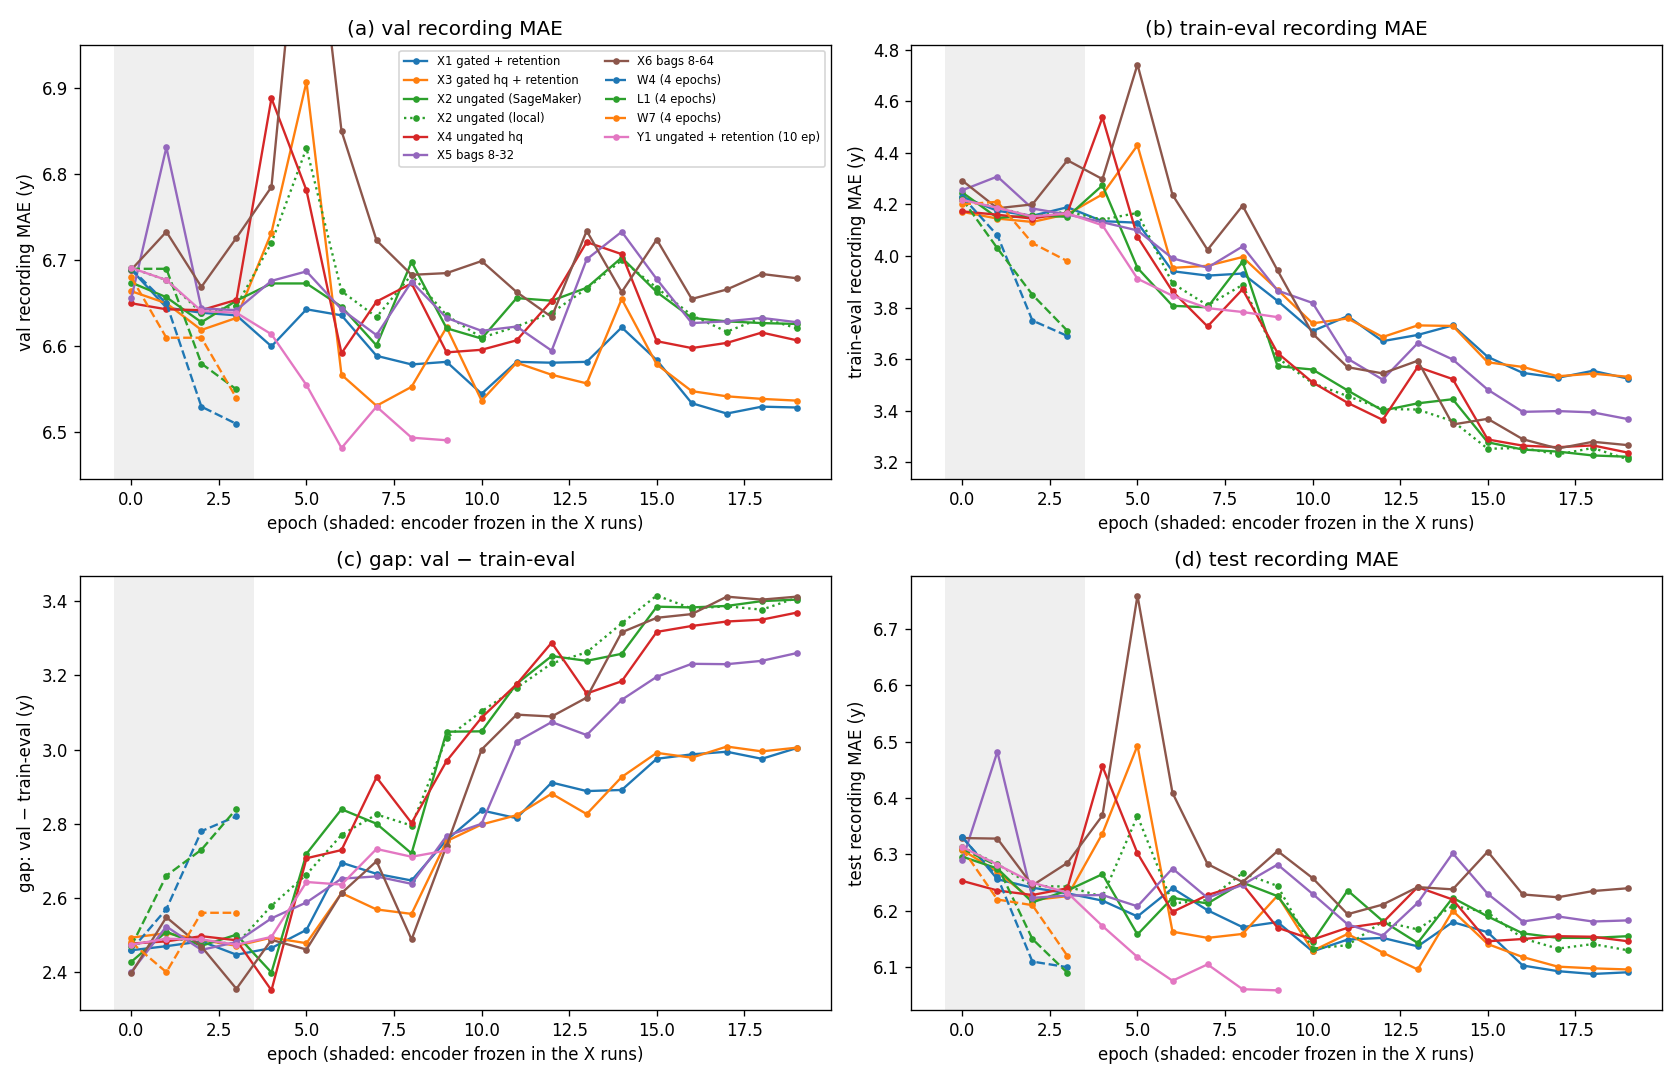
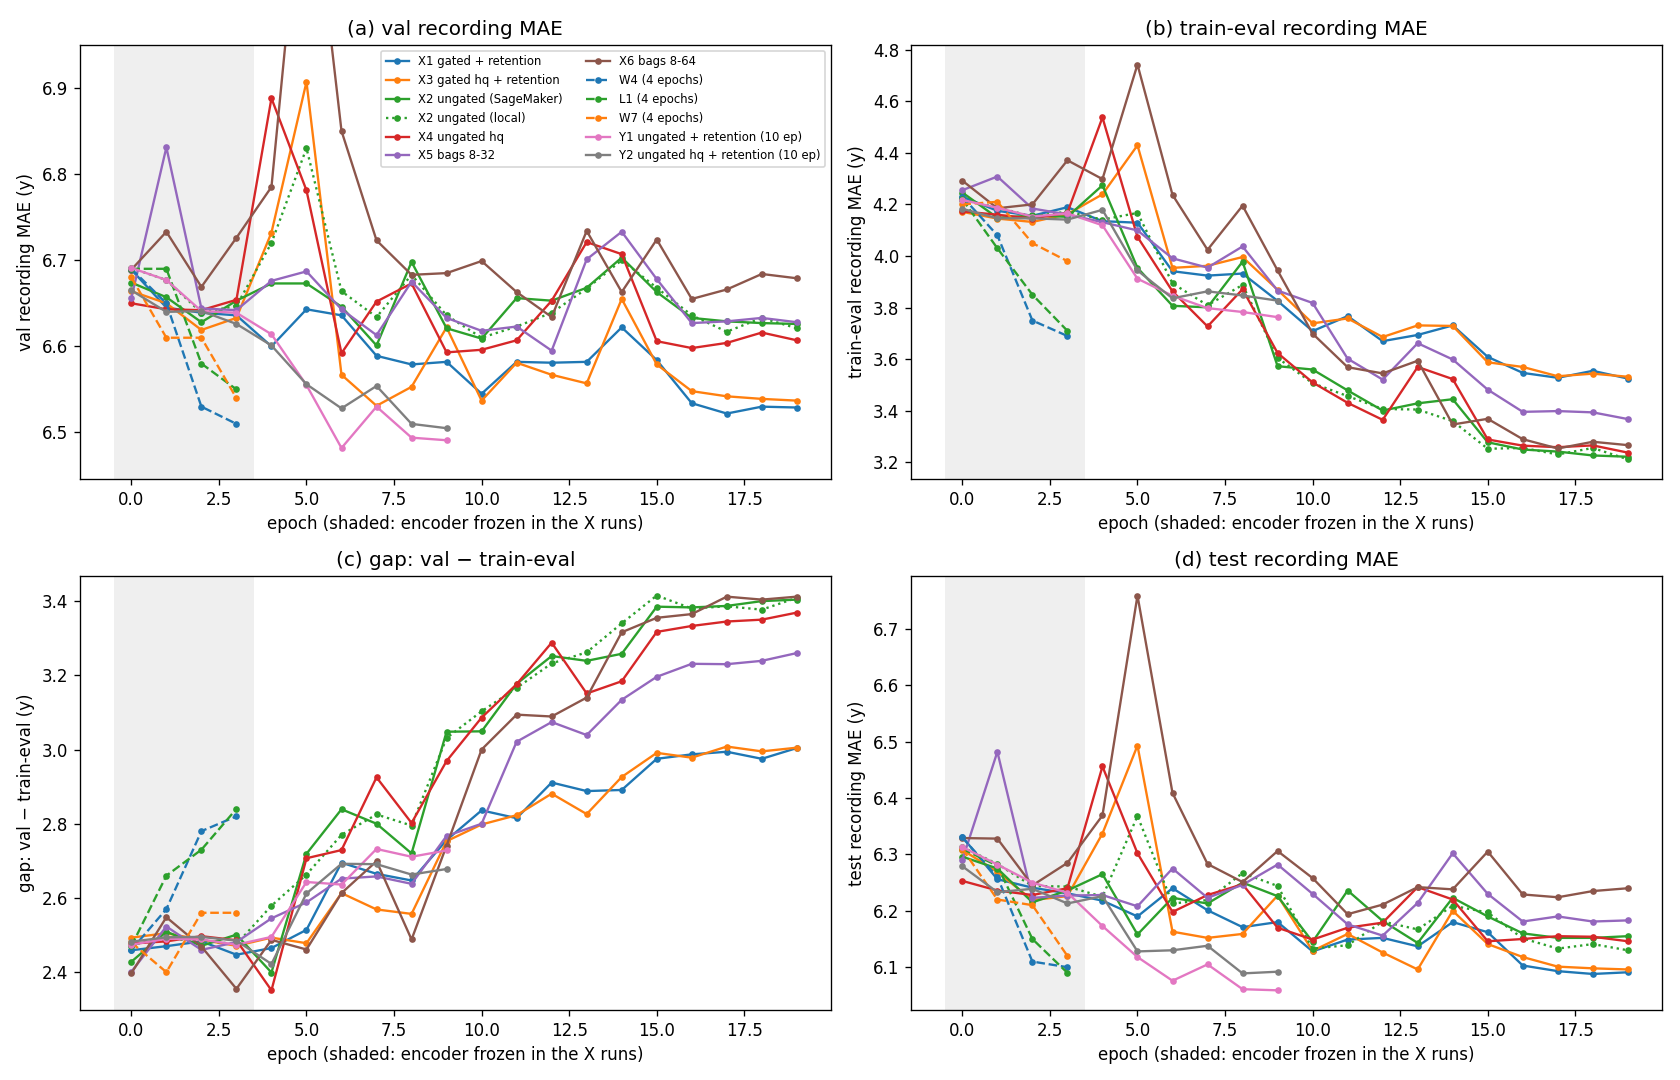
Y2 (ungated ABMIL + retention, attention on h + q, 10 epochs): section 12 rows, fit curves, age groups, LEMON
Best val 6.50 at epoch 9 (test 6.09), a tie with Y1 (6.48 / 6.08); best test TUAB normal
of every run (4.35). LEMON zero-shot 4.56 (all windows 4.51).

diff --git a/scripts/mil_x_fit_plot.py b/scripts/mil_x_fit_plot.py
@@ -20,10 +20,11 @@ from labram.eval.age_plots import assert_max_columns, panel_labels  # noqa: E402
 
 STYLE = {"X1": ("C0", "-"), "X3": ("C1", "-"), "X2 (SageMaker)": ("C2", "-"), "X2 (local)": ("C2", ":"),
          "X4": ("C3", "-"), "X5": ("C4", "-"), "X6": ("C5", "-"),
-         "W4": ("C0", "--"), "L1": ("C2", "--"), "W7": ("C1", "--"), "Y1": ("C6", "-")}
+         "W4": ("C0", "--"), "L1": ("C2", "--"), "W7": ("C1", "--"), "Y1": ("C6", "-"), "Y2": ("C7", "-")}
 LABEL = {"X1": "X1 gated + retention", "X3": "X3 gated hq + retention", "X2 (SageMaker)": "X2 ungated (SageMaker)",
          "X2 (local)": "X2 ungated (local)", "X4": "X4 ungated hq", "X5": "X5 bags 8-32",
-         "X6": "X6 bags 8-64", "W4": "W4 (4 epochs)", "L1": "L1 (4 epochs)", "W7": "W7 (4 epochs)", "Y1": "Y1 ungated + retention (10 ep)"}
+         "X6": "X6 bags 8-64", "W4": "W4 (4 epochs)", "L1": "L1 (4 epochs)", "W7": "W7 (4 epochs)", "Y1": "Y1 ungated + retention (10 ep)",
+         "Y2": "Y2 ungated hq + retention (10 ep)"}
 
 
 def main():

diff --git a/scripts/mil_cohort_summary.py b/scripts/mil_cohort_summary.py
@@ -97,6 +97,9 @@ def collect():
     y1 = glob.glob(os.path.join(LOCAL, "Y1_*", "analysis"))
     if y1:
         bag["Y1"] = (y1[0], 6)
+    y2 = glob.glob(os.path.join(LOCAL, "Y2_*", "analysis"))
+    if y2:
+        bag["Y2"] = (y2[0], 9)
     for name, (d, ep) in bag.items():
         for split in ("val", "test"):
             path = os.path.join(d, f"{split}_bag_weights_epoch{ep:02d}.parquet")

diff --git a/scripts/mil_age_groups.py b/scripts/mil_age_groups.py
@@ -48,6 +48,7 @@ EXPERIMENTS = {
     "X5 bags 8-32, 20 ep": "X5",
     "X6 bags 8-64, 20 ep": "X6",
     "Y1 ungated + retention, 10 ep": "Y1",
+    "Y2 ungated hq + retention, 10 ep": "Y2",
 }
 
 

diff --git a/docs/mil_stage1_results.md b/docs/mil_stage1_results.md
@@ -1005,7 +1005,7 @@ Launcher: `scripts/mil_runs/submit_grid.sh` (jobs `X1`–`X6`); X2 also runs on
 the local GPU (`scripts/mil_runs/run_local_abmil.sh trainer.epochs=20
 mil.freeze_encoder_epochs=4`). ClearML project `LaBraM/heedb_mil`.
 
-### Table 12.1. Jobs (status 2026-11-11 09:40 UTC)
+### Table 12.1. Jobs (status 2026-11-11 15:20 UTC)
 
 | job | pool | attention reads | retention | bag | where | status |
 |---|---|---|---|---|---|---|
@@ -1017,7 +1017,7 @@ mil.freeze_encoder_epochs=4`). ClearML project `LaBraM/heedb_mil`.
 | X5 | gated (X1) | $h$ | 0.1 | 16 × K, K ~ U{8..32} | SM g5.2xlarge on-demand | done (13:49 UTC; ~53 min per trained epoch) |
 | X6 | gated (X1) | $h$ | 0.1 | 8 × K, K ~ U{8..64} | SM g5.4xlarge on-demand (resubmitted) | done (01:27 UTC, 11 Nov; ~92 min per trained epoch) |
 | Y1 | ungated (L1) | $h$ | 0.1 | 32 × 8 | local GPU (no SageMaker g5 capacity); 10 epochs, frozen 0–3 | done (best val epoch 6) |
-| Y2 | ungated (L1) | $h$ + $q$ | 0.1 | 32 × 8 | local GPU, after Y1; 10 epochs, frozen 0–3 | running |
+| Y2 | ungated (L1) | $h$ + $q$ | 0.1 | 32 × 8 | local GPU, after Y1; 10 epochs, frozen 0–3 | done (14:53 UTC; best val epoch 9) |
 
 Infrastructure notes:
 - **X6, first attempt** (spot `g5.4xlarge`) stopped logging silently in
@@ -1122,6 +1122,7 @@ $\eta$ is the share of the train-eval improvement that reached val.
 | X5 bags 8–32 | 6.64 → 6.60 (12) | 6.16 / 6.18 | 4.16 → 3.37 | 2.48 → 3.07 → 3.26 | 0.06 |
 | X6 bags 8–64 | 6.73 → 6.63 (12) | 6.21 / 6.24 | 4.37 → 3.27 | 2.35 → 3.09 → 3.41 | 0.08 |
 | Y1 ungated + retention, 10 ep | 6.64 → **6.48** (6) | **6.08** / **6.06** | 4.17 → 3.76 | 2.47 → 2.64 → 2.73 | 0.39 |
+| Y2 ungated hq + retention, 10 ep | 6.63 → 6.50 (9) | 6.09 / 6.09 | 4.14 → 3.83 | 2.49 → 2.68 → 2.68 | 0.39 |
 
 ### Table 12.4. Gap per dataset: L1 after 4 epochs vs. X2 after 20 (same model; val − train-eval, years)
 
@@ -1167,9 +1168,10 @@ larger, so 0.2 y is a lower bound there.
 | X4 | ungated ABMIL, h + q; 20 ep, frozen 0–3 (best 6) | **6.59** | 5.65 / 7.26 | **6.63** / **7.83** / **8.35** | **5.65** / **6.98** / **6.08** | **6.20** / **5.67** / 6.96 / **5.94** | 4.63 / 8.57 | **5.77** / 6.87 / **5.94** |
 | X2 local | ungated ABMIL, h; 20 ep, frozen 0–3 (best 10) | **6.61** | **5.49** / 7.43 | **6.57** / 7.92 / 8.95 | **5.56** / **6.94** / **6.12** | **6.13** / **5.58** / **6.90** / **5.88** | 4.53 / 8.58 | **5.68** / **6.80** / **5.88** |
 | X2 SageMaker | as X2 local (last epoch 19) | **6.63** | 5.53 / 7.33 | 6.74 / 7.94 / 8.54 | **5.51** / 7.02 / **6.12** | **6.16** / **5.61** / **6.92** / **5.90** | 4.62 / **8.24** | **5.71** / **6.84** / **5.90** |
-| X5 | gated ABMIL, h, retention 0.1, bags 16 × 8–32; 20 ep, frozen 0–3 (best 12) | **6.59** | **5.45** / **7.16** | 6.73 / 7.90 / 8.65 | **5.61** / **6.93** / **6.06** | **6.16** / **5.65** / **6.88** / **5.91** | **4.47** / **8.27** | **5.76** / **6.81** / **5.91** |
+| X5 | gated ABMIL, h, retention 0.1, bags 16 × 8–32; 20 ep, frozen 0–3 (best 12) | **6.59** | **5.45** / **7.16** | 6.73 / 7.90 / 8.65 | **5.61** / **6.93** / **6.06** | **6.16** / **5.65** / **6.88** / **5.91** | **4.47** / 8.27 | **5.76** / **6.81** / **5.91** |
 | X6 | gated ABMIL, h, retention 0.1, bags 8 × 8–64; 20 ep, frozen 0–3 (best 12) | **6.63** | 5.53 / **7.09** | 6.80 / 7.99 / 8.74 | **5.64** / **6.95** / **6.08** | **6.21** / **5.74** / **6.94** / **5.95** | 4.75 / 8.33 | **5.84** / **6.86** / **5.95** |
 | Y1 | ungated ABMIL, h, retention 0.1; 10 ep, frozen 0–3 (best 6) | **6.48** | **5.40** / **7.10** | **6.56** / **7.66** / 8.55 | **5.55** / **6.80** / **6.00** | **6.08** / **5.64** / **6.75** / **5.83** | 4.50 / **8.23** | **5.75** / **6.67** / **5.83** |
+| Y2 | ungated ABMIL, h + q, retention 0.1; 10 ep, frozen 0–3 (best 9) | **6.50** | **5.34** / 7.23 | **6.52** / **7.70** / **8.45** | **5.56** / **6.88** / **6.02** | **6.09** / **5.64** / **6.78** / **5.84** | **4.35** / **8.04** | **5.77** / **6.71** / **5.84** |
 
 ### Table 12.6. $R^2$ per cohort at the best val epoch (same runs, epochs and columns as Table 12.5)
 
@@ -1186,12 +1188,12 @@ column (ties at three decimals all bold).
 
 | run | setup (pool, attention input, regularizer, epochs) | val all | val TUAB n / a | val TUEG n / a / u | val HEEDB n / a / u | test all / n / a / u | test TUAB n / a | test HEEDB n / a / u |
 |---|---|---|---|---|---|---|---|---|
-| E2L | window model, mean of window preds; 16 ep (best 11) | 0.754 | **0.779** / 0.588 | 0.702 / 0.633 / **0.404** | 0.784 / 0.723 / 0.802 | 0.791 / 0.781 / 0.741 / 0.811 | 0.855 / 0.598 | 0.775 / 0.748 / 0.811 |
+| E2L | window model, mean of window preds; 16 ep (best 11) | 0.754 | 0.779 / 0.588 | 0.702 / 0.633 / **0.404** | 0.784 / 0.723 / 0.802 | 0.791 / 0.781 / 0.741 / 0.811 | 0.855 / 0.598 | 0.775 / 0.748 / 0.811 |
 | A3 | post-hoc window weights on frozen E2L (descriptors → softmax); no retraining | 0.769 | 0.775 / 0.594 | 0.693 / 0.632 / 0.387 | 0.817 / 0.750 / 0.819 | 0.812 / 0.813 / 0.765 / 0.826 | 0.852 / 0.588 | 0.809 / 0.773 / 0.826 |
 | W4 | gated ABMIL, h; 4 ep (best 3) | 0.783 | 0.777 / 0.602 | 0.699 / 0.628 / 0.366 | **0.846** / 0.769 / 0.833 | 0.826 / 0.838 / 0.771 / 0.841 | 0.876 / 0.609 | **0.835** / 0.779 / 0.841 |
-| L1 | ungated ABMIL, h; 4 ep (best 3) | 0.781 | 0.768 / **0.620** | **0.703** / 0.619 / 0.361 | 0.843 / 0.763 / 0.835 | 0.826 / 0.838 / 0.771 / **0.842** | 0.879 / **0.617** | 0.834 / 0.778 / **0.842** |
+| L1 | ungated ABMIL, h; 4 ep (best 3) | 0.781 | 0.768 / **0.620** | 0.703 / 0.619 / 0.361 | 0.843 / 0.763 / 0.835 | 0.826 / 0.838 / 0.771 / **0.842** | 0.879 / **0.617** | 0.834 / 0.778 / **0.842** |
 | W7 | gated ABMIL, h, retention 0.1; 4 ep (best 3) | 0.783 | 0.778 / 0.589 | 0.700 / 0.632 / 0.376 | 0.839 / 0.768 / 0.835 | 0.826 / 0.833 / 0.775 / 0.841 | 0.882 / 0.603 | 0.829 / 0.783 / 0.841 |
-| X1 | gated ABMIL, h, retention 0.1; 20 ep, frozen 0–3 (best 17) | 0.782 | **0.779** / 0.606 | 0.695 / 0.627 / 0.351 | 0.844 / 0.767 / 0.835 | 0.826 / **0.839** / 0.772 / **0.842** | **0.885** / 0.600 | **0.835** / 0.780 / **0.842** |
+| X1 | gated ABMIL, h, retention 0.1; 20 ep, frozen 0–3 (best 17) | 0.782 | 0.779 / 0.606 | 0.695 / 0.627 / 0.351 | 0.844 / 0.767 / 0.835 | 0.826 / **0.839** / 0.772 / **0.842** | **0.885** / 0.600 | **0.835** / 0.780 / **0.842** |
 | X3 | gated ABMIL, h + q, retention 0.1; 20 ep, frozen 0–3 (best 7) | 0.780 | 0.777 / 0.581 | 0.689 / 0.622 / 0.341 | 0.837 / 0.765 / **0.838** | 0.823 / 0.827 / 0.771 / 0.840 | 0.880 / 0.603 | 0.823 / 0.779 / 0.840 |
 | X4 | ungated ABMIL, h + q; 20 ep, frozen 0–3 (best 6) | 0.778 | 0.757 / 0.592 | 0.701 / 0.615 / 0.375 | 0.838 / 0.762 / 0.832 | 0.822 / 0.834 / 0.764 / 0.838 | 0.869 / 0.567 | 0.831 / 0.773 / 0.838 |
 | X2 local | ungated ABMIL, h; 20 ep, frozen 0–3 (best 10) | 0.775 | 0.776 / 0.560 | 0.698 / 0.615 / 0.306 | 0.841 / 0.760 / 0.828 | 0.822 / 0.838 / 0.765 / 0.836 | 0.874 / 0.572 | **0.835** / 0.774 / 0.836 |
@@ -1199,6 +1201,7 @@ column (ties at three decimals all bold).
 | X5 | gated ABMIL, h, retention 0.1, bags 16 × 8–32; 20 ep, frozen 0–3 (best 12) | 0.779 | 0.774 / 0.608 | 0.690 / 0.618 / 0.338 | 0.840 / 0.765 / 0.835 | 0.824 / 0.835 / 0.771 / 0.839 | 0.879 / 0.605 | 0.832 / 0.778 / 0.839 |
 | X6 | gated ABMIL, h, retention 0.1, bags 8 × 8–64; 20 ep, frozen 0–3 (best 12) | 0.775 | 0.767 / 0.618 | 0.685 / 0.609 / 0.334 | 0.837 / 0.761 / 0.833 | 0.820 / 0.830 / 0.766 / 0.836 | 0.865 / 0.591 | 0.827 / 0.774 / 0.836 |
 | Y1 | ungated ABMIL, h, retention 0.1; 10 ep, frozen 0–3 (best 6) | **0.785** | 0.773 / 0.605 | 0.699 / **0.636** / 0.359 | 0.842 / **0.772** / 0.837 | **0.827** / 0.835 / **0.777** / **0.842** | 0.876 / 0.592 | 0.832 / **0.785** / **0.842** |
+| Y2 | ungated ABMIL, h + q, retention 0.1; 10 ep, frozen 0–3 (best 9) | 0.784 | **0.781** / 0.600 | **0.705** / 0.633 / 0.376 | 0.843 / 0.768 / 0.836 | **0.827** / 0.837 / 0.776 / **0.842** | 0.884 / 0.612 | 0.833 / 0.783 / **0.842** |
 
 Per cohort, Tables 12.5 and 12.6 show:
 * **HEEDB:** the long runs equal the 4-epoch ones (val normal 5.50–5.65,
@@ -1254,6 +1257,20 @@ Per cohort, Tables 12.5 and 12.6 show:
     level ($d$ 0.25, AUC 0.586), still well below E2L's 0.38.
   - On LEMON zero-shot it scores 4.55 (all windows 4.51) and has the best
     old-group MAE, 6.13 (`docs/external_eval_results.md`, Table 3.1).
+* **Y2 (Y1 + descriptors $q$ in the attention input) ties Y1.**
+  - Best val 6.50 at the last epoch 9 (test 6.09), against Y1's 6.48 / 6.08.
+    Per epoch (val / test / train-eval) from the unfreeze: 6.60 / 6.23 /
+    4.18, 6.56 / 6.13 / 3.94, 6.53 / 6.13 / 3.84, 6.55 / 6.14 / 3.86,
+    6.51 / 6.09 / 3.85, **6.50 / 6.09 / 3.83**. Gap 2.68 and $\eta = 0.39$,
+    as Y1 (Table 12.3).
+  - Per cohort (Table 12.5) it trades with Y1 within the noise: better on
+    test TUAB normal (4.35, the best of every run) and abnormal (8.04) and
+    on val TUEG unlabelled (8.45), slightly worse on HEEDB abnormal (6.88 /
+    6.71 vs 6.80 / 6.67).
+  - Same pattern as X3 vs X1 and X4 vs X2: the descriptors add nothing to
+    the overall MAE once the attention reads $h$.
+  - Its standing test sets: Temple 6.03, LEMON 4.56 at epoch 9 (4.44 at
+    epoch 5; `evaluation.test_sets`).
 * **A3 (post-hoc window weights on E2L, no retraining)** gets about half of
   the attention models' HEEDB gain (val normal 7.02 → 6.11 vs 5.50 for X1 /
   W4; test all 7.00 → 6.46 vs 6.09). It leaves TUAB and TUEG at E2L's level,
@@ -1287,7 +1304,7 @@ Rows are from `scripts/mil_age_groups.py` (CSVs in `docs/data/mil_age/`).
 | A3 | post-hoc weights on E2L | 5.55 | 5.19 | 6.10 | 6.98 | 6.13 | 5.87 | 6.66 | 10.52 | −0.21 | **0.40** / 0.54 / **0.38** | **0.630** |
 | W4 | gated, h; 4 ep | 4.00 | 4.63 | 6.03 | 6.73 | 6.15 | 5.99 | 6.29 | 8.49 | −0.16 | 0.23 / 0.46 / 0.20 | 0.577 |
 | L1 | ungated, h; 4 ep | 3.85 | 4.64 | 6.10 | 6.70 | 6.13 | 5.96 | 6.30 | 8.48 | −0.16 | 0.22 / 0.50 / 0.20 | 0.577 |
-| W7 | gated, h, ret. 0.1; 4 ep | 4.03 | 4.75 | **6.01** | 6.71 | 6.17 | 6.01 | 6.19 | 8.67 | −0.16 | 0.23 / 0.46 / 0.21 | 0.580 |
+| W7 | gated, h, ret. 0.1; 4 ep | 4.03 | 4.75 | 6.01 | 6.71 | 6.17 | 6.01 | 6.19 | 8.67 | −0.16 | 0.23 / 0.46 / 0.21 | 0.580 |
 | X1 | gated, h, ret. 0.1; 20 ep | 4.20 | 4.71 | 6.04 | 6.80 | 6.16 | 5.94 | 6.14 | 8.51 | −0.17 | 0.23 / 0.42 / 0.20 | 0.578 |
 | X3 | gated, h + q, ret. 0.1; 20 ep | 4.35 | 4.78 | 6.28 | 7.09 | 6.40 | 6.06 | 5.93 | **7.97** | −0.15 | 0.25 / 0.47 / 0.22 | 0.586 |
 | X4 | ungated, h + q; 20 ep | 3.63 | 4.70 | 6.37 | 6.90 | 6.13 | 6.10 | 6.43 | 8.57 | −0.15 | 0.22 / 0.46 / 0.19 | 0.576 |
@@ -1295,6 +1312,7 @@ Rows are from `scripts/mil_age_groups.py` (CSVs in `docs/data/mil_age/`).
 | X5 | gated, h, ret. 0.1, bags 8–32; 20 ep | 4.53 | 4.95 | 6.28 | 7.01 | 6.08 | 5.72 | 6.14 | 8.82 | −0.18 | 0.20 / 0.41 / 0.18 | 0.573 |
 | X6 | gated, h, ret. 0.1, bags 8–64; 20 ep | 4.28 | 4.87 | 6.20 | 7.04 | 6.34 | 6.09 | 6.27 | 8.12 | −0.16 | 0.17 / 0.36 / 0.15 | 0.559 |
 | Y1 | ungated, h, ret. 0.1; 10 ep | 4.04 | 4.69 | 6.31 | 7.03 | 6.33 | 5.95 | **5.80** | 8.02 | −0.15 | 0.25 / 0.48 / 0.22 | 0.586 |
+| Y2 | ungated, h + q, ret. 0.1; 10 ep | 4.40 | 4.66 | **5.93** | 6.71 | 6.10 | 6.01 | 6.18 | 8.61 | −0.17 | 0.25 / 0.46 / 0.22 | 0.585 |
 
 * **Long training leaves the age profile of the error unchanged.** Every
   attention run has $\beta \approx -0.15$ to $-0.17$, vs −0.30 for E2L.

diff --git a/docs/external_eval_results.md b/docs/external_eval_results.md
@@ -97,7 +97,7 @@ Predictions are de-normalised with the training-target statistics of
 The models:
 - **E2:** TUH + HEEDB;
 - **E2L:** E2 trained longer;
-- **W4 / L1 / W7 / X1 / X3 / X6 / Y1:** the attention-MIL models of `docs/mil_stage1_results.md`, scored bag-wise.
+- **W4 / L1 / W7 / X1 / X3 / X6 / Y1 / Y2:** the attention-MIL models of `docs/mil_stage1_results.md`, scored bag-wise.
 
 Columns, for recordings $r$ of a group $G$ with true age $y_r$ and prediction $\hat y_r$:
 
@@ -133,6 +133,7 @@ $\hat y$). It uses the cohort's ages, so it is **not** zero-shot.
 | **X3** | **4.47** | −0.67 | **0.96** | **0.91** | 3.61 (+0.85) | 6.24 (−3.81) | **4.46** | **4.37** |
 | X6 (bags 8–64) | 4.49 | −0.30 | 0.95 | 0.91 | 3.65 (+1.08) | 6.21 (−3.13) | 4.53 | 4.46 |
 | Y1 (ungated + retention, 10 ep) | 4.55 | −0.59 | 0.95 | 0.91 | 3.78 (+0.87) | **6.13** (−3.60) | 4.55 | 4.51 |
+| Y2 (ungated h + q + retention, 10 ep) | 4.56 | −0.73 | 0.95 | 0.91 | 3.61 (+1.11) | 6.52 (−4.51) | 4.51 | 4.51 |
 
 Binning alone costs about 1.25 y of MAE: the mean absolute distance of a
 uniform age from its 5-year bin's midpoint.
